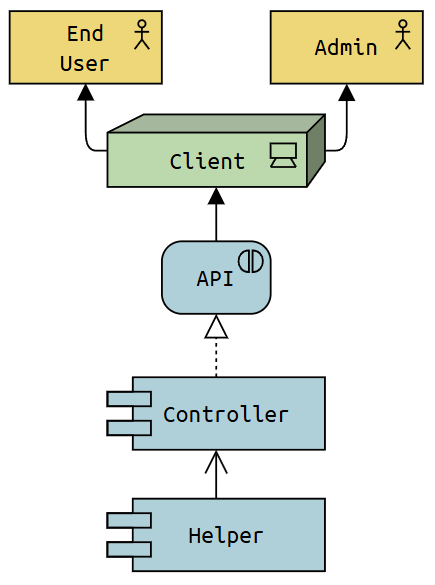
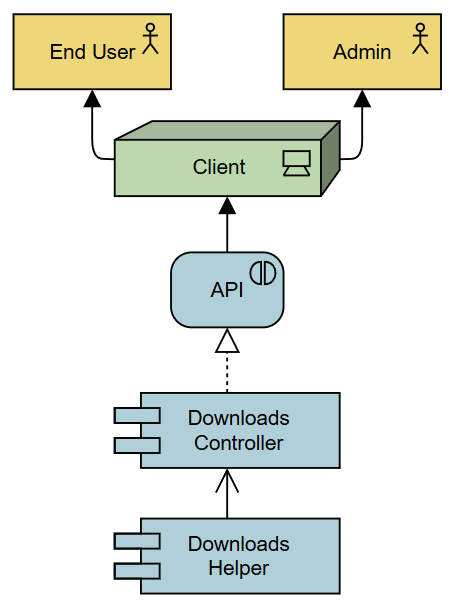
Additional diagrams

Changed region(s): [[0.2391, 0.4, 0.7471, 0.9846], [0.2092, 0.0, 0.9862, 0.3692], [0.0, 0.0, 0.3885, 0.2462]]

diff --git a/README.md b/README.md
@@ -27,7 +27,10 @@ Provide clients with the ability to download videos from the library in lower qu
     - [5.1. ArchiMate Notation](#51-archimate-notation)
         - [5.1.1. Colour scheme](#511-colour-scheme)
         - [5.1.2. Arrow Notation](#512-arrow-notation)
-    - [5.2. Common Design](#52-common-design)
+    - [5.2. Common Designs](#52-common-designs)
+        - [5.2.1. Entry point](#521-entry-point)
+        - [5.2.2. Settings interaction](#522-settings-interaction)
+        - [5.2.3. Original file interaction](#523-original-file-interaction)
     - [5.3. Transcoding](#53-transcoding)
         - [5.3.1. Object Diagram](#531-object-diagram)
     - [5.4. Curation](#54-curation)
@@ -298,9 +301,11 @@ Notation comes from the ArchiMate 3.2 specification, provided by Open Group, ava
 
 ---
 
-### 5.2. Common Design
+### 5.2. Common Designs
 
-Both transcoding and manual curation would share the same entry point design.
+Both transcoding and manual curation would share some design elements.
+
+#### 5.2.1. Entry point
 
 ![Common entry point design](/images/hld-common-entry-point.png)
 
@@ -308,6 +313,30 @@ Both transcoding and manual curation would share the same entry point design.
 
 - "Helper" is a service named after the Jellyfin convention.
 - Clients tested are Web and Android. Others that support downloading should be assessed.
+
+<br>
+
+<p align="left">─ ─ ─ ─ ─ ─ ─ ─ ─ ─ ─ ─</p>
+
+#### 5.2.2. Settings interaction
+
+![Common settings design](/images/hld-common-settings.png)
+
+**Notes**
+
+- Helper handles user preferences, backend download options use the backend services.
+
+<br>
+
+<p align="left">─ ─ ─ ─ ─ ─ ─ ─ ─ ─ ─ ─</p>
+
+#### 5.2.3. Original file interaction
+
+![Common serving original file](/images/hld-common-original-file-served.png)
+
+**Notes**
+
+- Original file being served when selected or no applicable version available.
 
 <br>
 
